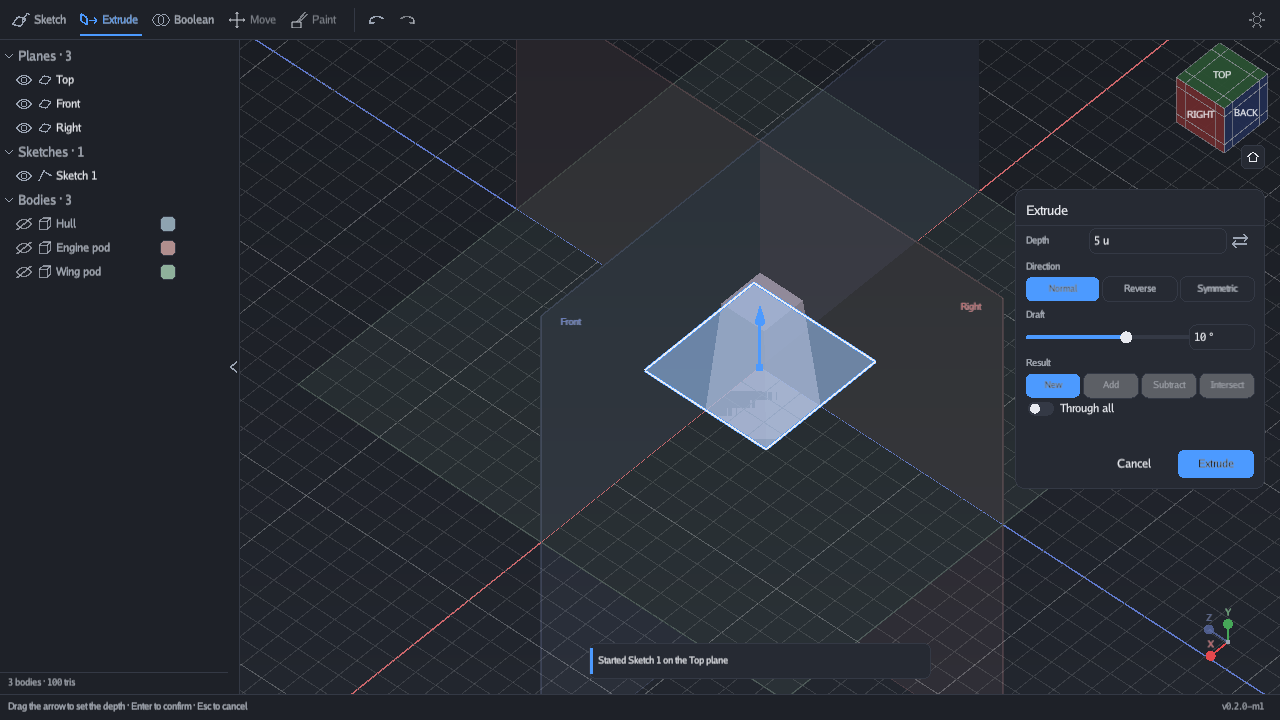
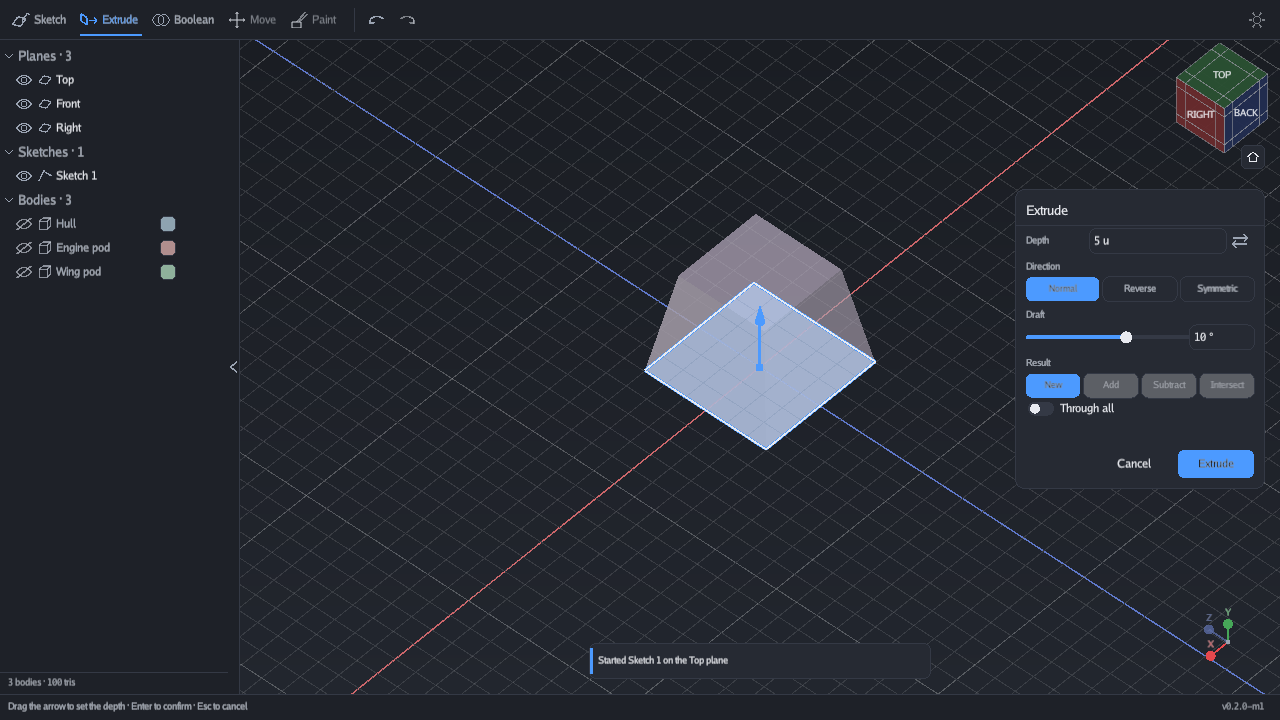
Hide the default planes while an extrude is being dragged
Dimming them was not enough. Three translucent quads spanning the viewport
still cross the solid you are pulling out, and at that moment the only
thing that matters is how far it has come.

They are hidden for the duration of the tool and back the instant it
closes; the eye toggles in the tree are untouched. The sketch grid stays,
because that is what makes the depth readable.

diff --git a/internal/app/viewport.go b/internal/app/viewport.go
@@ -52,7 +52,14 @@ func (a *App) BuildScene() render.Scene {
 		s.Bodies = append(s.Bodies, d)
 	}
 
-	s.Planes = a.buildPlaneDraws()
+	// The default planes step out of the way entirely while an extrude is being
+	// dragged. Dimming them was not enough: three translucent quads spanning the
+	// viewport still cross the solid you are pulling out, and the one thing that
+	// matters at that moment is how far it has come. They are back the instant
+	// the tool closes, and their eye toggles are untouched.
+	if !a.InExtrude() {
+		s.Planes = a.buildPlaneDraws()
+	}
 
 	// Every visible sketch draws, in or out of sketch mode, so the eye toggle
 	// on a sketch row means something.

diff --git a/PROGRESS.md b/PROGRESS.md
@@ -23,6 +23,13 @@ previews, and the planes now honour the scene's dim factor. What a mode is
 about is the one thing at full strength; everything else, planes included,
 recedes.
 
+**Then the user asked for the planes to go entirely while extruding, and they
+were right.** Dimming them was not enough — three translucent quads spanning the
+viewport still cross the solid being pulled out, and at that moment the only
+thing that matters is how far it has come. They are hidden for the duration of
+the tool and back the instant it closes; their eye toggles are untouched. The
+sketch grid stays, because that is what makes the depth readable.
+
 **Verified:** rendered an extrude in progress on the user's scene — the prism
 is now unmistakably the brightest thing in the frame. Sketch mode re-checked:
 the sketch still reads first, and the plane quads no longer compete with it.
